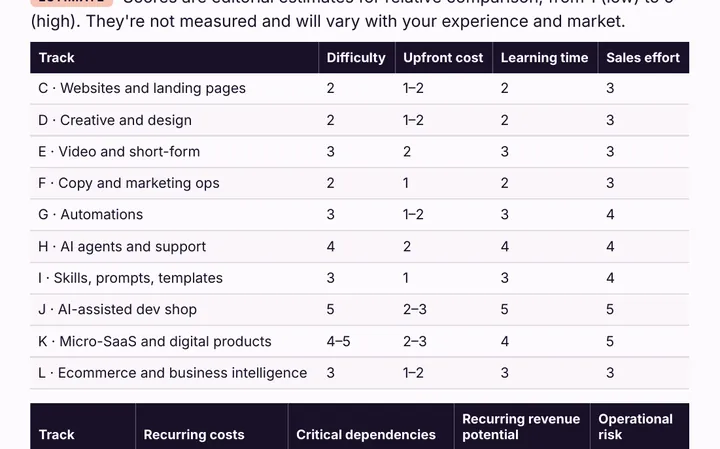
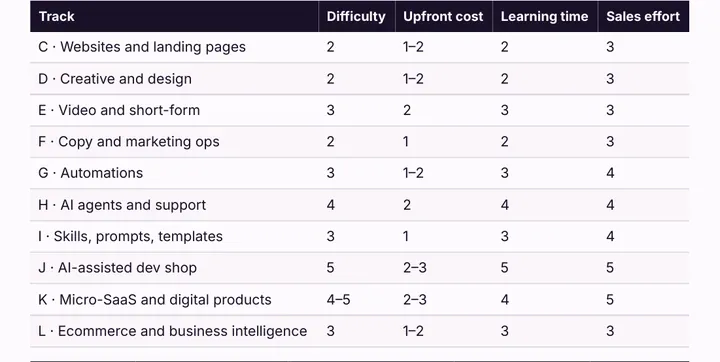
Ajusta primeira dobra no celular, contraste e zoom das prévias
- Faixa com a capa real no hero em telas até 960px.
- Contraste de textos secundários acima de 4.5:1 na página de vendas.
- Rodapé do lightbox oculto durante o zoom; recorte do mapa (EN) refeito.
- ViewContent disparado uma única vez por carregamento.
- README com rotas, configuração e prévias.

diff --git a/src/sales/content.ts b/src/sales/content.ts
@@ -50,6 +50,7 @@ export type SalesContent = {
     note: string;
     coverAlt: string;
     badge: string;
+    peek: string;
   };
   facts: { value: string; label: string }[];
   tracks: { tag: string; title: string; desc: string; note: string; items: Track[] };
@@ -111,7 +112,7 @@ export const ptBr: SalesContent = {
     eyebrow: "Guia prático em PDF · Edição 1.0",
     title: "Quer criar sites e materiais com IA para oferecer a clientes?",
     lead:
-      "O AI to Business é um guia em PDF que mostra como transformar o que você já consegue fazer com IA, como sites, criativos, vídeos e automações, em um serviço com escopo definido, preço de teste e uma demonstração para apresentar.",
+      "O AI to Business é um guia em PDF que mostra como transformar sites, criativos, vídeos e automações feitos com IA em um serviço com escopo, preço de teste e uma demonstração para apresentar.",
     bullets: [
       "Escolha uma entre 10 trilhas de serviço ou produto, com critério de pontuação.",
       "Monte uma oferta de uma página: entregáveis, prazo, revisões, exclusões e preço.",
@@ -121,6 +122,7 @@ export const ptBr: SalesContent = {
     note: "Você será direcionado ao checkout da Kiwify.",
     coverAlt: "Capa do guia AI to Business, edição em português do Brasil, da cub4Studio",
     badge: "PDF · 105 páginas · PT-BR",
+    peek: "Edição 1.0 · toque na capa para ver páginas reais",
   },
   facts: [
     { value: "105", label: "páginas em PDF" },
@@ -248,6 +250,7 @@ export const ptBr: SalesContent = {
       "Não é preciso programar nas trilhas iniciantes (sites, criativos e copy) se você usar um construtor visual. Com gerador de código por IA, é preciso ler e ajustar HTML simples.",
       "As trilhas intermediárias pedem mais ferramentas conectadas, testes e atenção a custos por uso.",
       "Nas trilhas avançadas (agentes, skills, software house e micro-SaaS), colocar em produção pede conhecimento técnico real ou um parceiro especializado.",
+      "O plano de 14 dias considera de 1 a 3 horas por dia.",
     ],
     notForTitle: "Não é para você se",
     notFor: [
@@ -351,7 +354,7 @@ export const en: SalesContent = {
     eyebrow: "Practical PDF guide · Edition 1.0",
     title: "Want to turn AI skills into services you can offer clients?",
     lead:
-      "AI to Business is a PDF guide that shows you how to turn what you can already make with AI, like websites, creative assets, videos, and automations, into a clearly scoped service with a test price and a demo you can show.",
+      "AI to Business is a PDF guide that shows you how to turn AI-made websites, creative assets, videos, and automations into a clearly scoped service with a test price and a demo you can show.",
     bullets: [
       "Pick one of 10 service or product tracks using a simple scoring method.",
       "Build a one-page offer: deliverables, timeline, revisions, exclusions, and price.",
@@ -361,6 +364,7 @@ export const en: SalesContent = {
     note: "You'll complete your purchase on Hotmart.",
     coverAlt: "Cover of the AI to Business guide, American English edition, by cub4Studio",
     badge: "PDF · 104 pages · EN-US",
+    peek: "Edition 1.0 · tap the cover to see real pages",
   },
   facts: [
     { value: "104", label: "PDF pages" },
@@ -488,6 +492,7 @@ export const en: SalesContent = {
       "No coding needed for the beginner tracks (websites, creative, and copy) if you use a visual builder. With an AI code generator, you'll need to read and tweak basic HTML.",
       "Intermediate tracks involve more connected tools, more testing, and attention to usage-based costs.",
       "For the advanced tracks (agents, skills, dev shop, and micro-SaaS), running in production takes real technical knowledge or a specialist partner.",
+      "The 14-day plan assumes 1 to 3 hours a day.",
     ],
     notForTitle: "It's not for you if",
     notFor: [

diff --git a/src/styles/site.css b/src/styles/site.css
@@ -1516,6 +1516,8 @@ body:has(.project-modal.is-open) .whatsapp-float {
   .reveal { opacity: 1; transform: none; transition: none; }
 }
 
+.sales-page { --text-dim: #9d92b0; }
+
 .sp-skip {
   position: absolute;
   top: 8px;
@@ -1623,6 +1625,22 @@ a.sp-lang__item:hover { color: var(--text); background: rgba(255, 255, 255, 0.06
 }
 
 .sp-hero__visual { position: relative; display: flex; justify-content: center; }
+.sp-peek { display: none; }
+.sp-peek__cover {
+  flex: 0 0 auto;
+  width: 76px;
+  padding: 0;
+  border: 0;
+  background: none;
+  border-radius: 6px;
+  cursor: zoom-in;
+  box-shadow: 0 10px 24px rgba(0, 0, 0, 0.5), 0 0 0 1px rgba(255, 255, 255, 0.1);
+  -webkit-tap-highlight-color: transparent;
+}
+.sp-peek__cover img { width: 100%; height: auto; aspect-ratio: 480 / 723; border-radius: 6px; }
+.sp-peek__text { margin: 0; display: flex; flex-direction: column; gap: 4px; font-size: 0.86rem; line-height: 1.4; }
+.sp-peek__text strong { color: var(--text); font-size: 0.92rem; }
+
 .sp-cover {
   display: block;
   width: min(100%, 400px);
@@ -1960,7 +1978,9 @@ a.sp-lang__item:hover { color: var(--text); background: rgba(255, 255, 255, 0.06
   margin: 0 auto;
   object-fit: initial;
 }
-.lightbox.is-zoomed .lightbox__hint { display: none; }
+.lightbox.is-zoomed .lightbox__hint,
+.lightbox.is-zoomed .lightbox__footer { display: none; }
+.lightbox.is-zoomed .lightbox__slide.is-active { padding-bottom: calc(16px + env(safe-area-inset-bottom, 0px)); }
 
 /* ---------- Responsive ---------- */
 
@@ -1983,7 +2003,17 @@ a.sp-lang__item:hover { color: var(--text); background: rgba(255, 255, 255, 0.06
   /* Página de vendas */
   .sp-hero__grid { grid-template-columns: 1fr; gap: 40px; }
   .sp-hero__copy { max-width: 680px; }
-  .sp-cover { width: min(100%, 300px); }
+  .sp-hero__visual { display: none; }
+  .sp-peek {
+    display: flex;
+    align-items: center;
+    gap: 16px;
+    margin: 0 0 24px;
+    padding: 12px;
+    border: 1px solid var(--border);
+    border-radius: var(--radius-md);
+    background: rgba(255, 255, 255, 0.03);
+  }
   .sp-receive,
   .sp-audience { grid-template-columns: repeat(2, minmax(0, 1fr)); }
   .sp-steps { grid-template-columns: repeat(2, minmax(0, 1fr)); }
@@ -2172,14 +2202,15 @@ a.sp-lang__item:hover { color: var(--text); background: rgba(255, 255, 255, 0.06
 
   /* Página de vendas */
   .sp-hero { padding: 36px 0 44px; }
-  .sp-hero .eyebrow { font-size: 0.74rem; margin-bottom: 16px; }
+  .sp-hero .eyebrow { display: none; }
+  .sp-peek__cover { width: 64px; }
+  .sp-peek { margin-bottom: 20px; }
   .sp-hero h1 { font-size: clamp(1.85rem, 8.2vw, 2.3rem); margin-bottom: 16px; }
   .sp-lead { font-size: 1rem; margin-bottom: 20px; }
   .sp-bullets { margin-bottom: 26px; }
   .sp-bullets li { font-size: 0.95rem; }
   .sp-hero__cta { align-items: stretch; }
   .sp-cta { width: 100%; white-space: normal; }
-  .sp-cover { width: min(72%, 260px); }
   .sp-facts__value { font-size: 1.3rem; }
   .sp-receive li,
   .sp-audience li,

diff --git a/src/sales/SalesPage.tsx b/src/sales/SalesPage.tsx
@@ -140,6 +140,15 @@ export function SalesPage({ content }: { content: SalesContent }) {
               </p>
               <h1>{content.hero.title}</h1>
               <p className="sp-lead">{content.hero.lead}</p>
+              <div className="sp-peek">
+                <button type="button" className="sp-peek__cover" onClick={() => setLightbox(0)} aria-label={`${content.inside.open}: ${content.hero.coverAlt}`}>
+                  <img src={`${content.assets}/${content.cover}-480.webp`} width={480} height={723} alt="" decoding="async" />
+                </button>
+                <p className="sp-peek__text">
+                  <strong>{content.hero.badge}</strong>
+                  <span>{content.hero.peek}</span>
+                </p>
+              </div>
               <ul className="sp-bullets">
                 {content.hero.bullets.map((bullet) => (
                   <li key={bullet}>

diff --git a/src/sales/tracking.ts b/src/sales/tracking.ts
@@ -12,7 +12,11 @@ export function buildCheckoutUrl(base: string, allowed: readonly string[], searc
   return url.toString();
 }
 
+let viewTracked = false;
+
 export function initSalesTracking(content: SalesContent) {
+  if (viewTracked) return;
+  viewTracked = true;
   initAnalytics({ metaPixel: content.pixelId });
   const w = window as AnalyticsWindow;
   const item = { item_id: `ai-to-business-${content.locale}`, item_name: content.offer.title, price: content.price };

diff --git a/README.md b/README.md
@@ -32,6 +32,17 @@ public/           # favicon, logo e prints do portfólio
 
 O portfólio publicado hoje: Grupo FVT, Gabrieli Lazzarotto, PipoCrunch, Guacamole Cocina Mexicana, The Raven, EconoRadar, Mel & Brasa, Néctar Atelier e The Lake Nyos Mystery. Para incluir um projeto, edite `src/data/portfolio.ts` e coloque as imagens em `public/portfolio/`.
 
+## Página de vendas — AI to Business
+
+Duas páginas fora da navegação do site (acesso só pela URL, com `noindex`):
+
+- `/pt-br/ai-to-business/` → checkout Kiwify (BRL)
+- `/en/ai-to-business/` → checkout Hotmart (USD)
+
+Cada rota é uma entrada do build (`pt-br/ai-to-business/index.html` e `en/ai-to-business/index.html`, registradas em `vite.config.ts`) e renderiza `src/sales/`. Checkouts, preços, moedas, pixels, suporte e garantia ficam em `src/sales/config.ts`; os textos dos dois idiomas, em `src/sales/content.ts`. Os CTAs repassam ao checkout só os parâmetros de atribuição aceitos por cada plataforma (`src`, `sck`, `utm_*` e, na Kiwify, `s1`–`s3`); dados pessoais da URL nunca são repassados.
+
+As prévias em `public/ai-to-business/` são páginas avulsas exportadas do PDF (página inteira para o lightbox e um recorte legível para os cards). O PDF completo não deve entrar em `public/` nem no repositório.
+
 ## Contato
 
 Orçamentos vão para `cub4studio@gmail.com` via FormSubmit. O WhatsApp `(47) 99994-0399` é o CTA principal. GA4 e Meta Pixel ficam opcionais em `src/data/site.ts` (`ga4` e `metaPixel`). A hospedagem do site é Cloudflare Workers.
